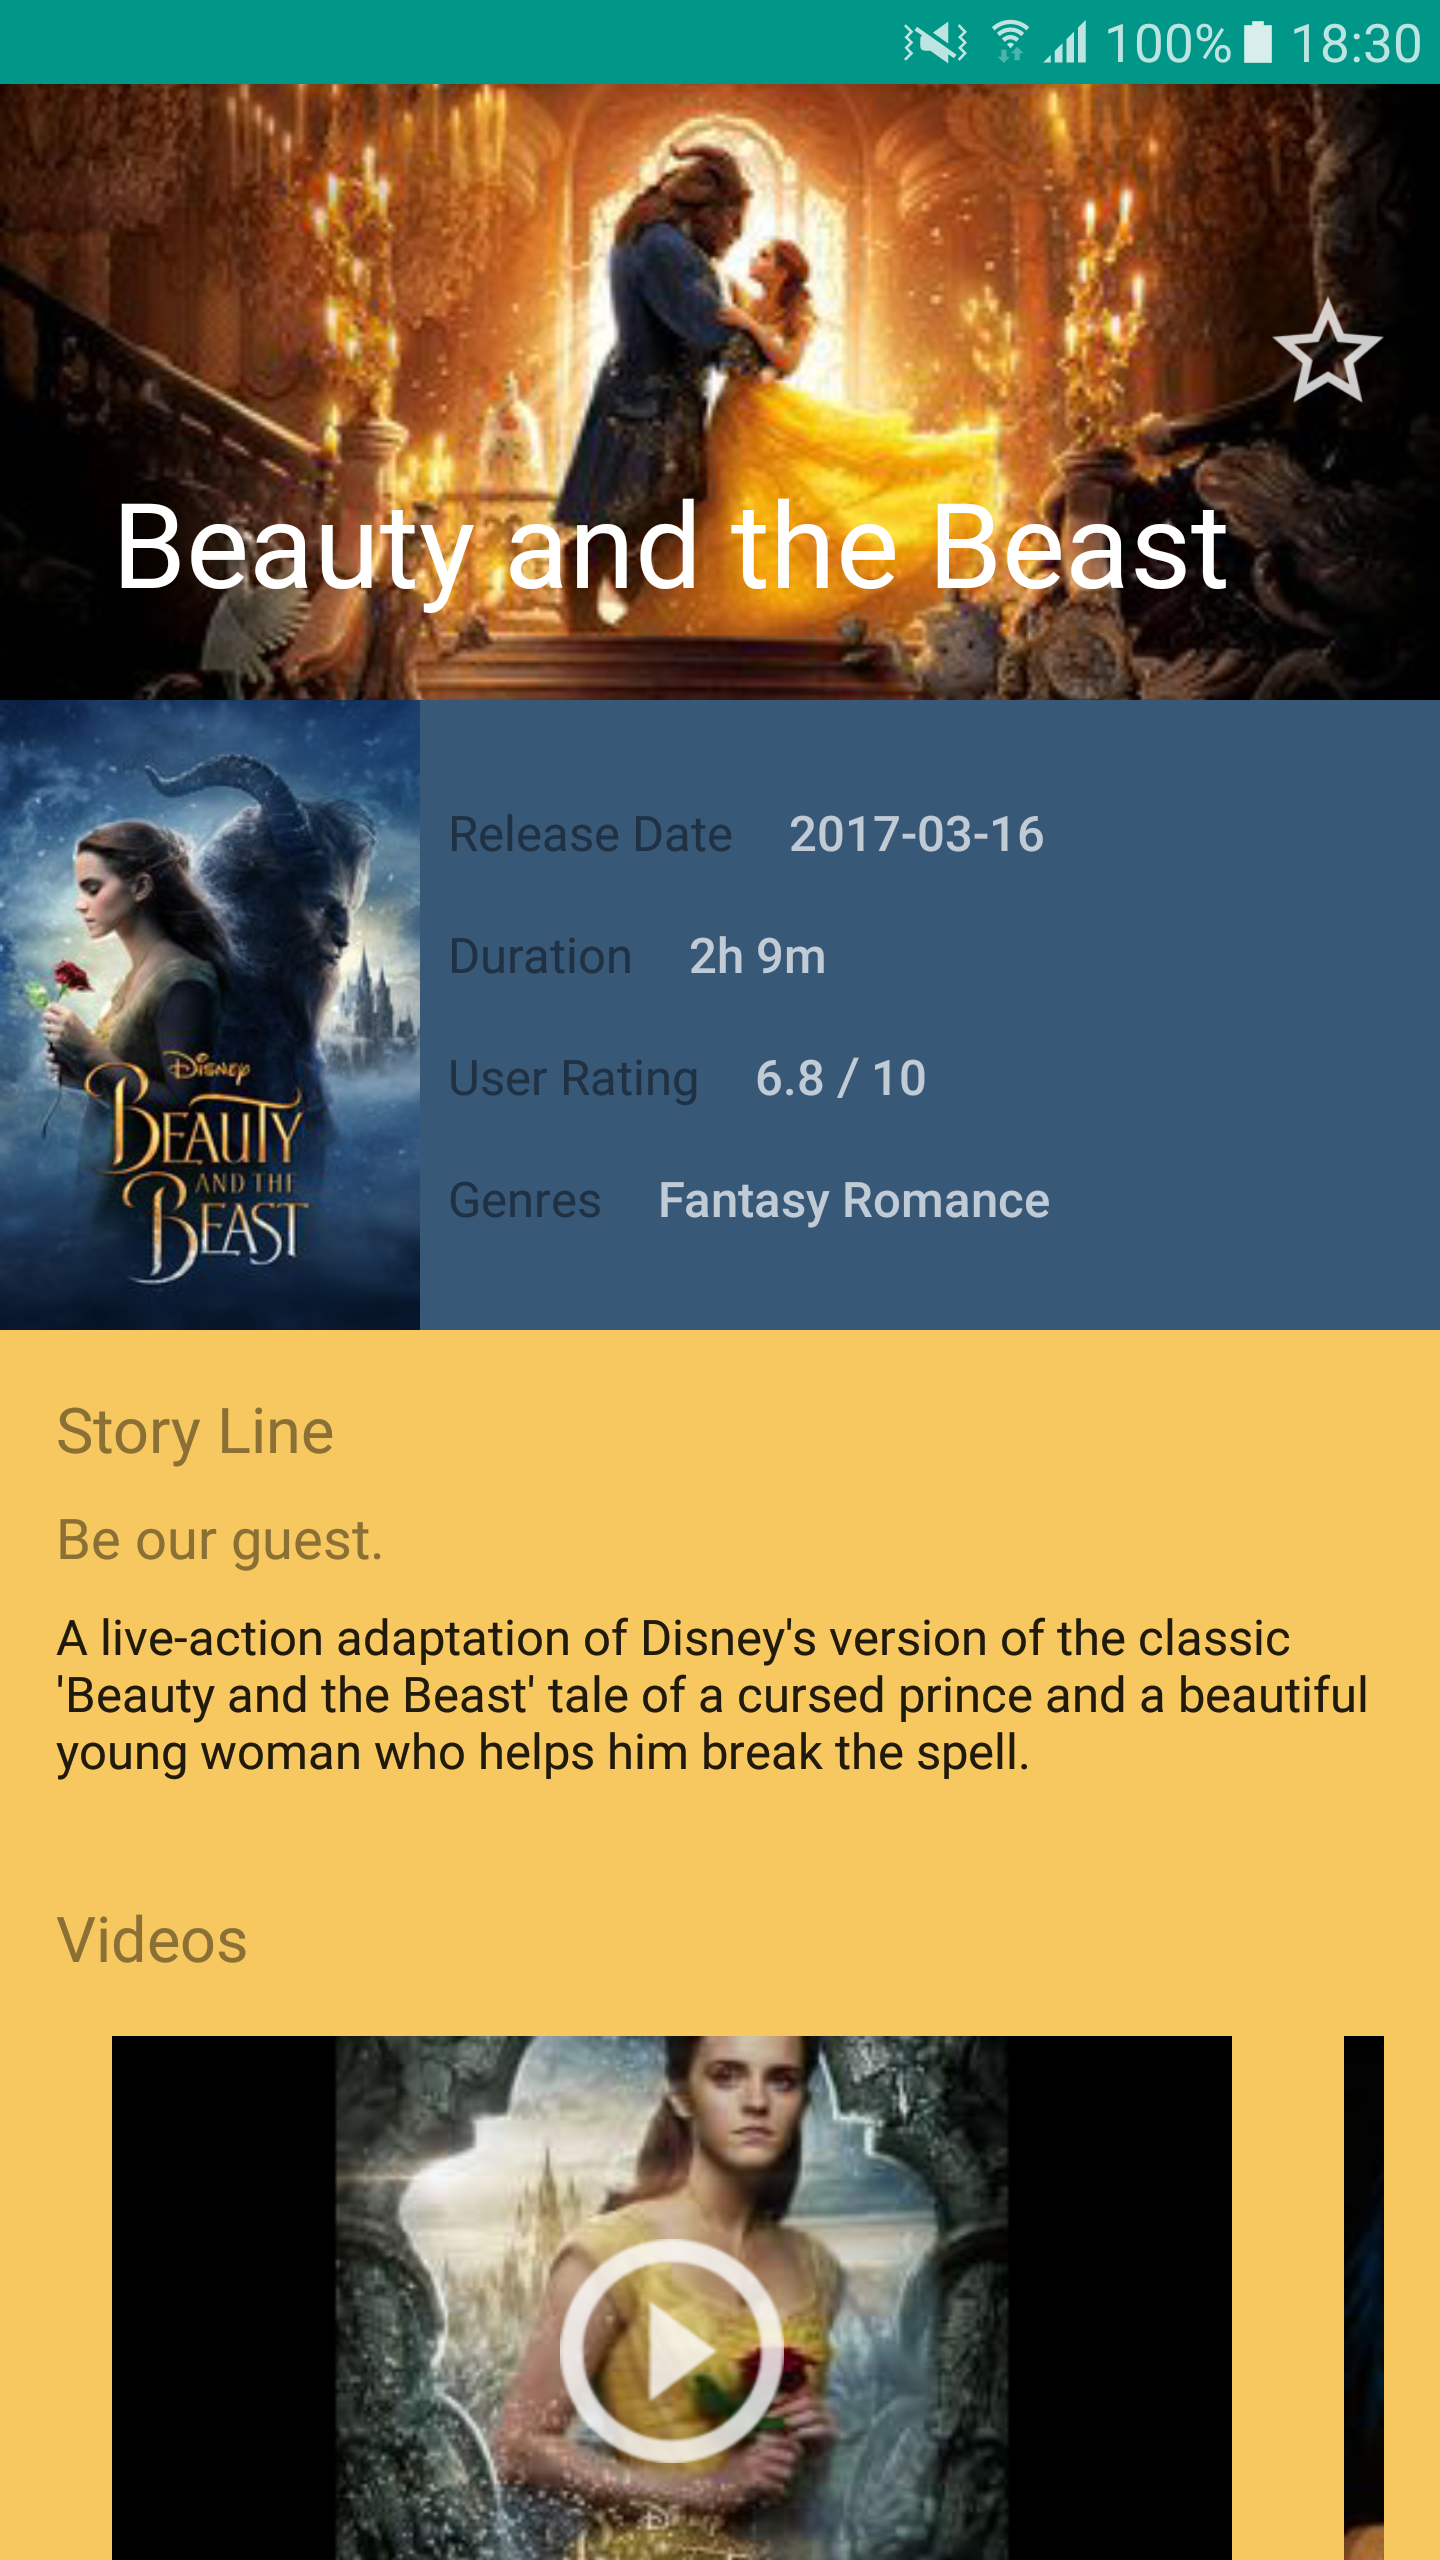
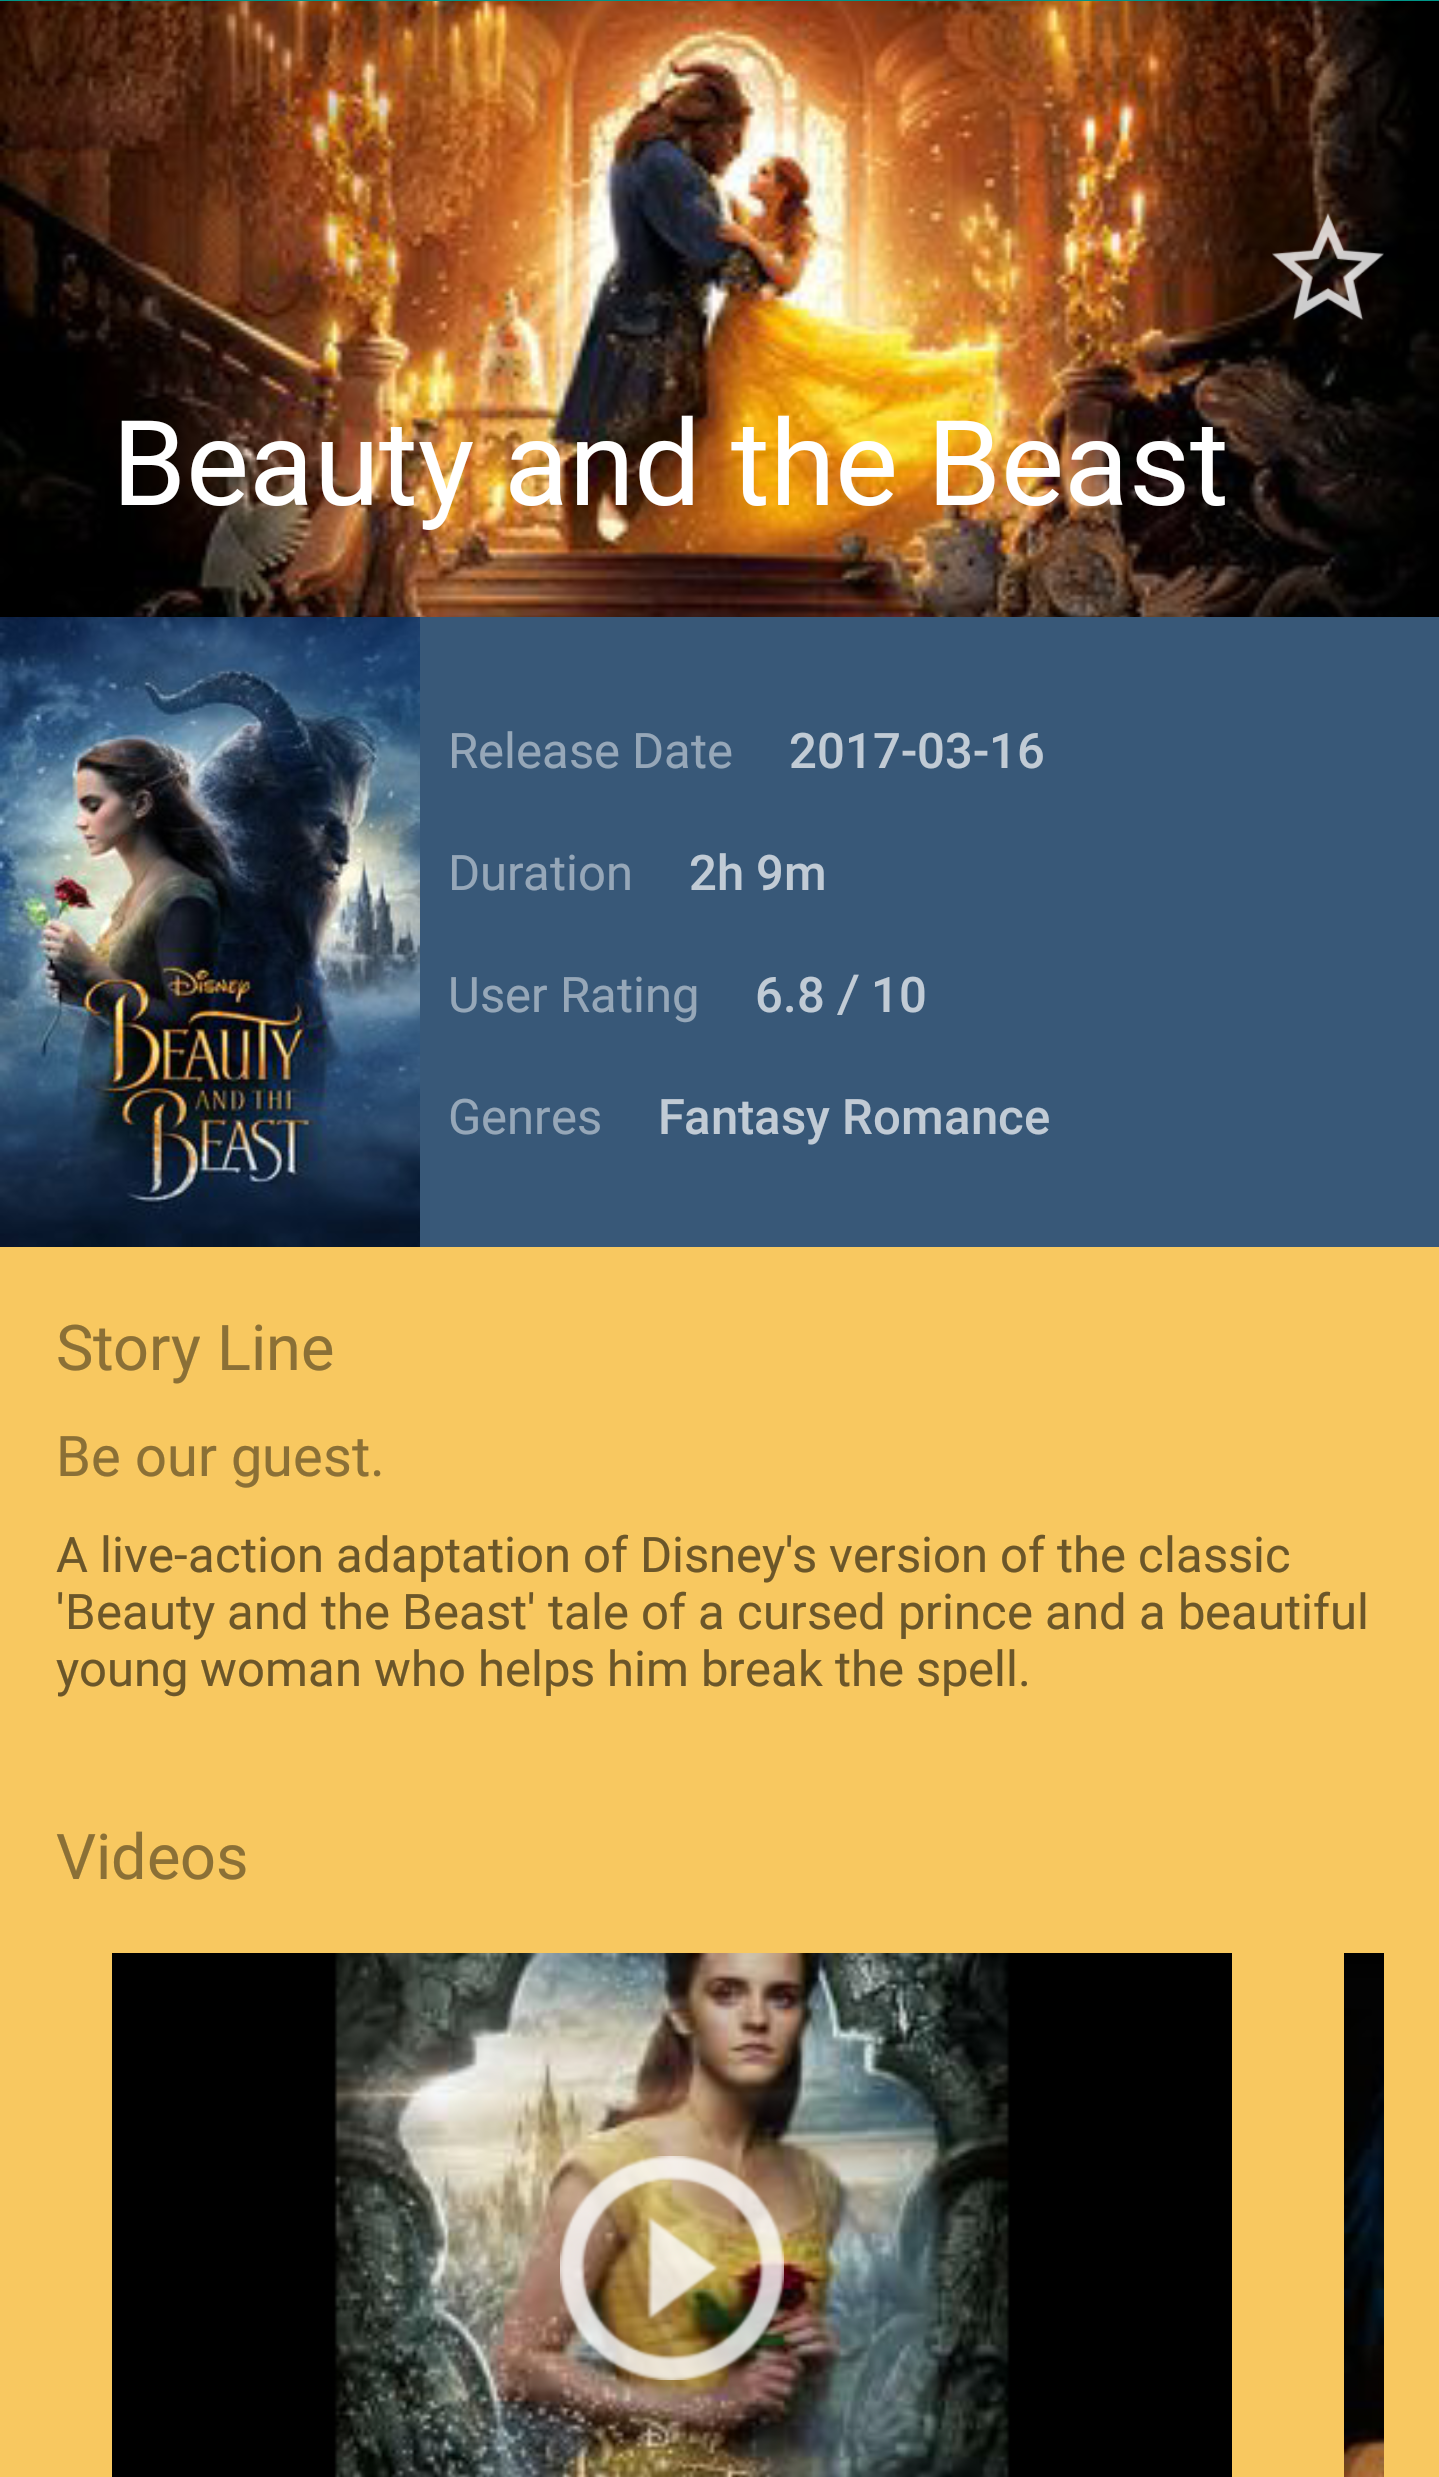
Fixing color palette and updating screenshots accordingly

diff --git a/app/src/main/java/org/ipforsmartobjects/apps/popularmovies/detail/MovieDetailFragment.java b/app/src/main/java/org/ipforsmartobjects/apps/popularmovies/detail/MovieDetailFragment.java
@@ -174,36 +174,55 @@ public class MovieDetailFragment extends Fragment implements MovieDetailContract
                                     @Override
                                     public void onGenerated(Palette palette) {
                                         Palette.Swatch primarySwatch = palette.getLightVibrantSwatch() == null ? palette.getDarkVibrantSwatch() : palette.getLightVibrantSwatch();
-                                        Palette.Swatch secondarySwatch = palette.getVibrantSwatch();
+                                        Palette.Swatch secondarySwatch = palette.getVibrantSwatch() == null ? palette.getMutedSwatch() : palette.getVibrantSwatch();
 
                                         if (primarySwatch != null) {
                                             mBinding.movieDetailViewLayout.movieDetailViewContainer.setBackgroundColor(primarySwatch.getRgb());
-                                            mBinding.movieDetailViewLayout.ranking.setTextColor(primarySwatch.getBodyTextColor());
-                                            mBinding.movieDetailViewLayout.duration.setTextColor(primarySwatch.getBodyTextColor());
-                                            mBinding.movieDetailViewLayout.genre.setTextColor(primarySwatch.getBodyTextColor());
-                                            mBinding.movieDetailViewLayout.releaseDate.setTextColor(primarySwatch.getBodyTextColor());
-                                            mBinding.movieDetailViewLayout.tagline.setTextColor(primarySwatch.getTitleTextColor());
-                                            mBinding.movieDetailViewLayout.castLayoutLabel.setTextColor(primarySwatch.getTitleTextColor());
-                                            mBinding.movieDetailViewLayout.durationLabel.setTextColor(primarySwatch.getTitleTextColor());
-                                            mBinding.movieDetailViewLayout.genreLabel.setTextColor(primarySwatch.getTitleTextColor());
+
                                             mBinding.movieDetailViewLayout.overviewLayoutLabel.setTextColor(primarySwatch.getTitleTextColor());
-                                            mBinding.movieDetailViewLayout.photoLayoutLabel.setTextColor(primarySwatch.getTitleTextColor());
-                                            mBinding.movieDetailViewLayout.rankingLabel.setTextColor(primarySwatch.getTitleTextColor());
-                                            mBinding.movieDetailViewLayout.releaseDateLabel.setTextColor(primarySwatch.getTitleTextColor());
-                                            mBinding.movieDetailViewLayout.reviewLayoutLabel.setTextColor(primarySwatch.getTitleTextColor());
-                                            mBinding.movieDetailViewLayout.trailerLayoutLabel.setTextColor(primarySwatch.getTitleTextColor());
-                                            mBinding.movieDetailViewLayout.videosLayoutLabel.setTextColor(primarySwatch.getTitleTextColor());
-                                            mTrailerAdapter.setColors(primarySwatch.getRgb(), primarySwatch.getTitleTextColor(), primarySwatch.getBodyTextColor());
+                                            mBinding.movieDetailViewLayout.tagline.setTextColor(primarySwatch.getTitleTextColor());
+                                            mBinding.movieDetailViewLayout.overview.setTextColor(primarySwatch.getBodyTextColor());
+
+                                            mBinding.movieDetailViewLayout.castLayoutLabel.setTextColor(primarySwatch.getTitleTextColor());
                                             mCastAdapter.setColors(primarySwatch.getRgb(), primarySwatch.getTitleTextColor(), primarySwatch.getBodyTextColor());
+
+                                            mBinding.movieDetailViewLayout.photoLayoutLabel.setTextColor(primarySwatch.getTitleTextColor());
+
+                                            mBinding.movieDetailViewLayout.reviewLayoutLabel.setTextColor(primarySwatch.getTitleTextColor());
                                             mReviewAdapter.setColors(primarySwatch.getRgb(), primarySwatch.getTitleTextColor(), primarySwatch.getBodyTextColor());
+
+                                            mBinding.movieDetailViewLayout.trailerLayoutLabel.setTextColor(primarySwatch.getTitleTextColor());
+                                            mTrailerAdapter.setColors(primarySwatch.getRgb(), primarySwatch.getTitleTextColor(), primarySwatch.getBodyTextColor());
+
+                                            mBinding.movieDetailViewLayout.videosLayoutLabel.setTextColor(primarySwatch.getTitleTextColor());
                                             mVideoAdapter.setColors(primarySwatch.getRgb(), primarySwatch.getTitleTextColor(), primarySwatch.getBodyTextColor());
                                         }
+
                                         if (secondarySwatch != null) {
                                             mBinding.movieDetailViewLayout.posterContainer.setBackgroundColor(secondarySwatch.getRgb());
+                                            mBinding.movieDetailViewLayout.rankingLabel.setTextColor(secondarySwatch.getTitleTextColor());
                                             mBinding.movieDetailViewLayout.ranking.setTextColor(secondarySwatch.getBodyTextColor());
+
+                                            mBinding.movieDetailViewLayout.durationLabel.setTextColor(secondarySwatch.getTitleTextColor());
                                             mBinding.movieDetailViewLayout.duration.setTextColor(secondarySwatch.getBodyTextColor());
+
+                                            mBinding.movieDetailViewLayout.genreLabel.setTextColor(secondarySwatch.getTitleTextColor());
                                             mBinding.movieDetailViewLayout.genre.setTextColor(secondarySwatch.getBodyTextColor());
+
+                                            mBinding.movieDetailViewLayout.releaseDateLabel.setTextColor(secondarySwatch.getTitleTextColor());
                                             mBinding.movieDetailViewLayout.releaseDate.setTextColor(secondarySwatch.getBodyTextColor());
+                                        } else if (primarySwatch != null) {
+                                            mBinding.movieDetailViewLayout.rankingLabel.setTextColor(primarySwatch.getTitleTextColor());
+                                            mBinding.movieDetailViewLayout.ranking.setTextColor(primarySwatch.getBodyTextColor());
+
+                                            mBinding.movieDetailViewLayout.durationLabel.setTextColor(primarySwatch.getTitleTextColor());
+                                            mBinding.movieDetailViewLayout.duration.setTextColor(primarySwatch.getBodyTextColor());
+
+                                            mBinding.movieDetailViewLayout.genreLabel.setTextColor(primarySwatch.getTitleTextColor());
+                                            mBinding.movieDetailViewLayout.genre.setTextColor(primarySwatch.getBodyTextColor());
+
+                                            mBinding.movieDetailViewLayout.releaseDateLabel.setTextColor(primarySwatch.getTitleTextColor());
+                                            mBinding.movieDetailViewLayout.releaseDate.setTextColor(primarySwatch.getBodyTextColor());
                                         }
                                     }
                                 });
